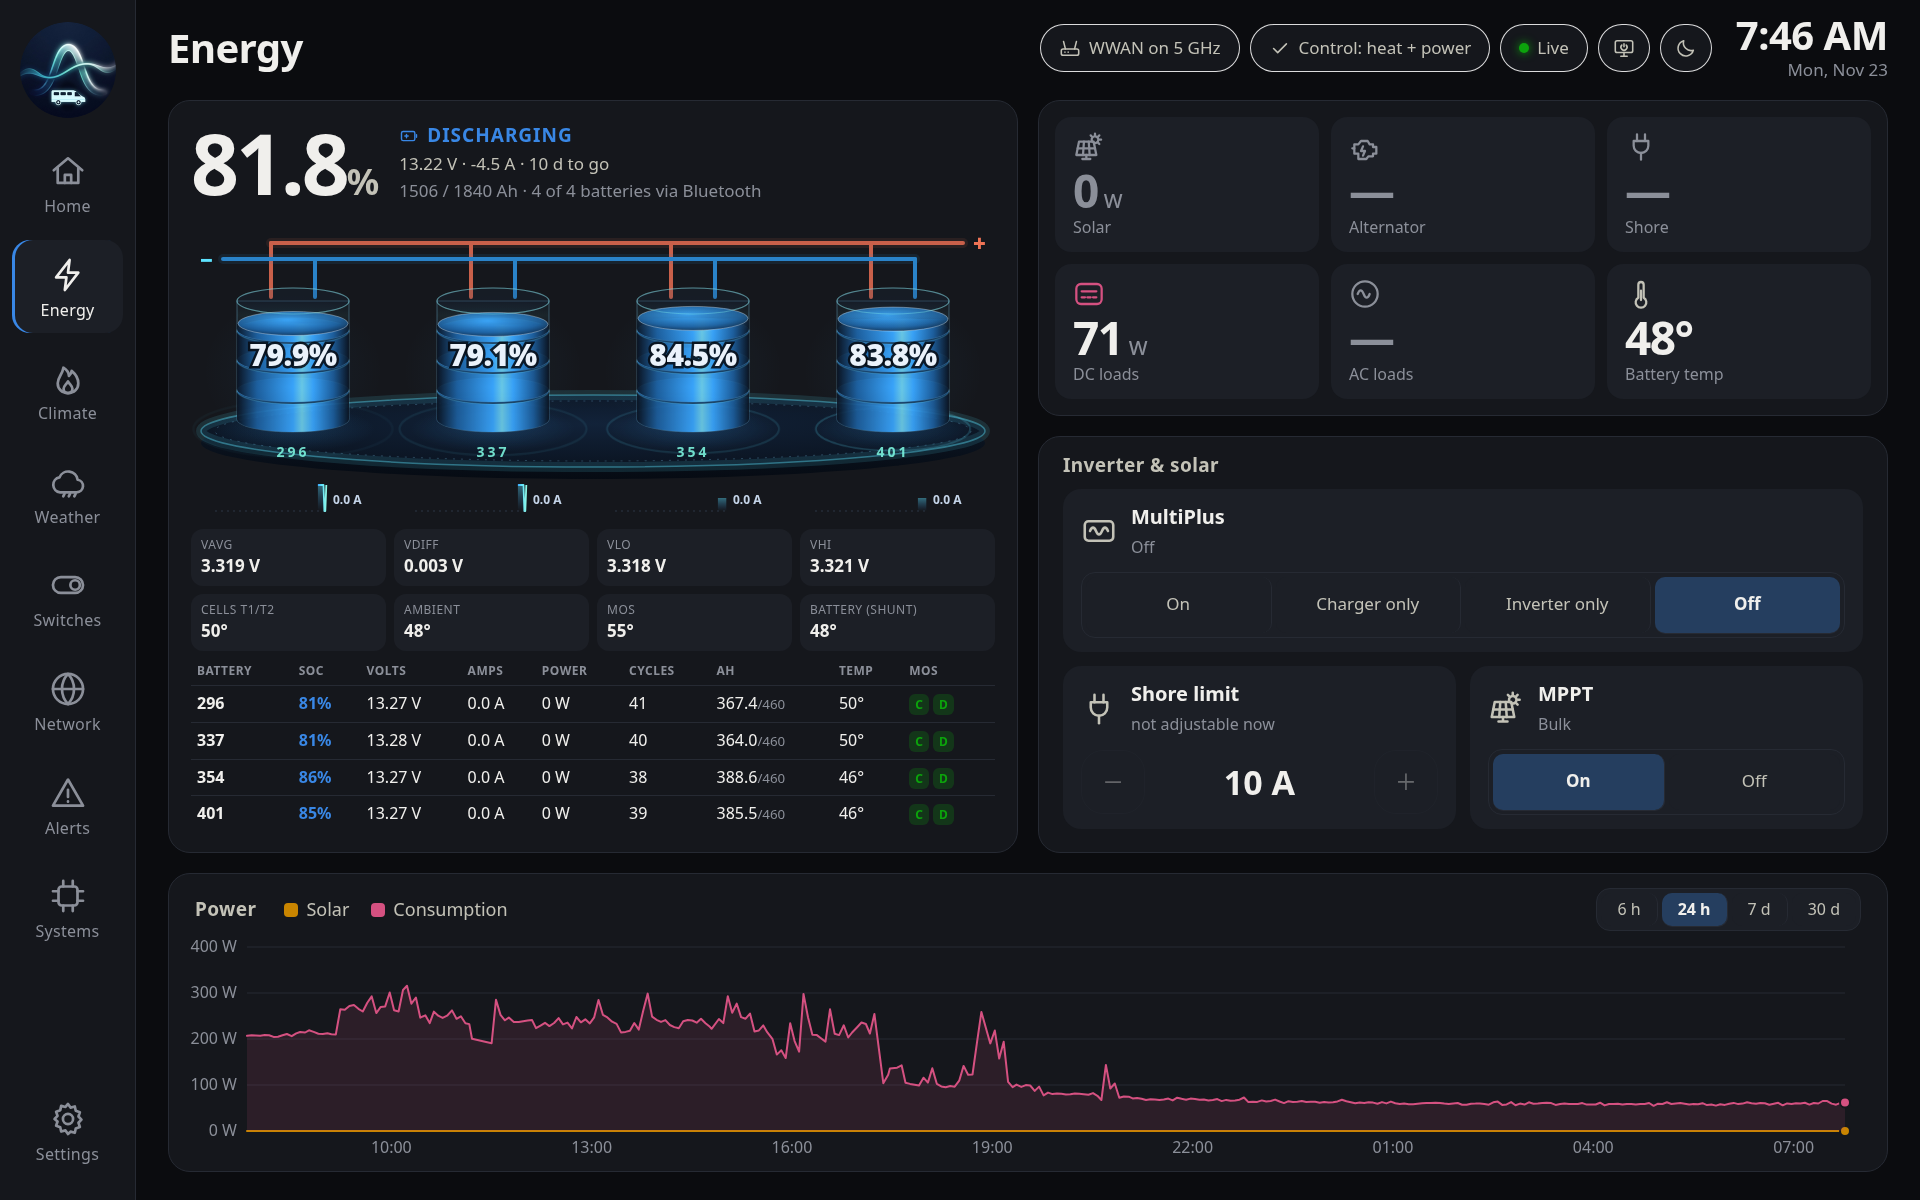
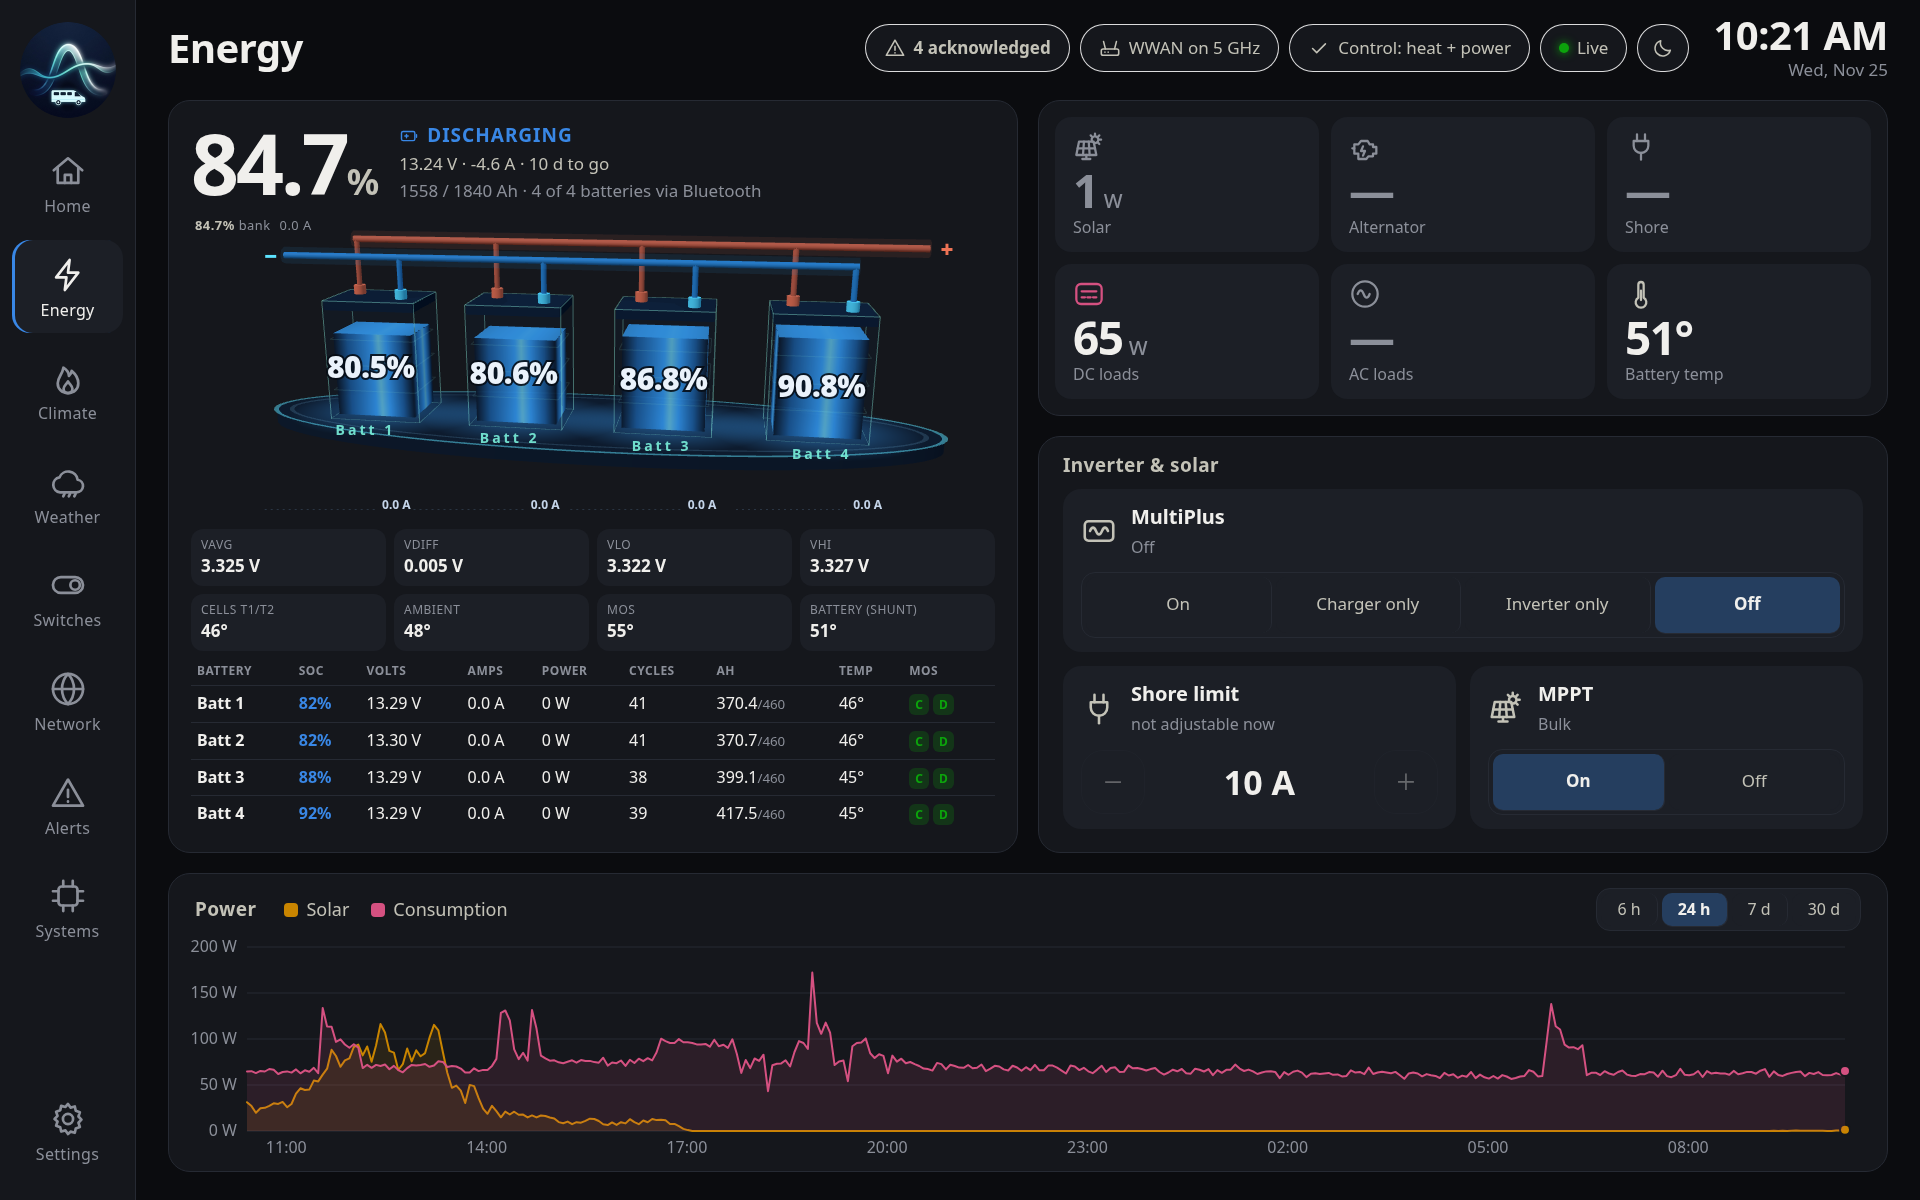
README: new screenshots of the Rust UI (owner), with the tool that makes them
Home, Energy, Climate, Weather and Network from the van's real state, sanitized as before (position Denver, Wi-Fi
"Campground Wi-Fi", batteries Batt 1-4; serials, MACs and private IPs replaced), the weather map dark.

harness/ui-reference/screenshots.sh fetch: the van's /api/state and a copy of its history database, read-only through
tools/van-read.sh. render: sanitize-state.jq, then ui/shots/readme.spec.ts renders the production bundle against a
stub gateway (hello + the snapshot; /api/history answered from the copy with the gateway's own query; times moved to
"now"). Every non-GET request is refused and commands are dropped, so the page can reach no device; only the public
forecast, radar and map services are fetched. The Climate alt text now mentions the Espar card.

Claude-Session: https://claude.ai/code/session_01Jyszw4XqWCXybbAoUN5jAm

diff --git a/ui/shots/readme.spec.ts b/ui/shots/readme.spec.ts
@@ -1,0 +1,79 @@
+// The README's screenshots (docs/screenshots/*.png), from a sanitized state snapshot and a copy of the history
+// database: harness/ui-reference/screenshots.sh sets SHOTS_STATE, SHOTS_HISTORY, SHOTS_TAKEN_AT and SHOTS_OUT.
+// The gateway is a STUB: /ws sends hello + the snapshot and answers nothing; /api/history reads the copy with the
+// gateway's own query. Every non-GET request and every host but the public map/radar/forecast services is refused,
+// so nothing can reach a device. Times in the snapshot and the history are moved to "now", so nothing reads stale.
+import { execFileSync } from "node:child_process";
+import { mkdirSync, readFileSync } from "node:fs";
+import { test } from "@playwright/test";
+
+const env = (k: string) => {
+  const v = process.env[k];
+  if (!v) throw new Error(`${k} is not set (run harness/ui-reference/screenshots.sh)`);
+  return v;
+};
+const STATE = JSON.parse(readFileSync(env("SHOTS_STATE"), "utf8")) as Record<string, unknown>;
+const HISTORY = env("SHOTS_HISTORY");
+const TAKEN_AT = Number(env("SHOTS_TAKEN_AT"));
+const OUT = env("SHOTS_OUT");
+const SHIFT = Date.now() / 1000 - TAKEN_AT;
+// the public services the Weather page fetches itself (forecast, radar index and tiles, the base map)
+const PUBLIC = /^https:\/\/([a-z0-9-]+\.)*(open-meteo\.com|librewxr\.net|openstreetmap\.org)\//;
+
+/** Epoch seconds (and milliseconds) moved by SHIFT; everything else as it was. */
+function shifted(v: unknown): unknown {
+  if (typeof v === "number") {
+    if (v > 1.7e9 && v < 1.9e9) return v + SHIFT;
+    if (v > 1.7e12 && v < 1.9e12) return v + SHIFT * 1000;
+    return v;
+  }
+  if (Array.isArray(v)) return v.map(shifted);
+  if (v && typeof v === "object") return Object.fromEntries(Object.entries(v).map(([k, x]) => [k, shifted(x)]));
+  return v;
+}
+
+/** The gateway's history_get: buckets of max(30 s, since/points), [MAX(t), AVG(v)], read as of TAKEN_AT. */
+function history(key: string, since: number, points: number): [number, number][] {
+  if (!/^[a-z0-9_.]+$/.test(key) || /(^|\.)(lat|lon|location|gps)(\.|$)/.test(key)) return [];
+  const start = TAKEN_AT - since, bucket = Math.max(30, since / Math.max(points, 1));
+  const sql = `SELECT MAX(t) AS t, AVG(v) AS v FROM samples WHERE key = '${key}' AND t >= ${start} `
+    + `GROUP BY CAST((t - ${start}) / ${bucket} AS INTEGER) ORDER BY 1`;
+  const out = execFileSync("sqlite3", ["-readonly", "-json", HISTORY, sql], { encoding: "utf8" }).trim();
+  return (out ? JSON.parse(out) as { t: number; v: number }[] : []).map(r => [r.t + SHIFT, Math.round(r.v * 100) / 100]);
+}
+
+const PAGES: [string, number][] = [["home", 5000], ["energy", 7000], ["climate", 5000], ["weather", 12000], ["network", 7000]];
+
+for (const [view, settle] of PAGES) {
+  test(`${view}.png`, async ({ page }) => {
+    await page.route(() => true, r => {
+      const req = r.request(), u = new URL(req.url());
+      const local = u.hostname === "127.0.0.1" || u.hostname === "localhost";
+      if (local && u.pathname === "/api/client-info") return r.fulfill({ json: {} });
+      if (req.method() !== "GET") return r.abort();                         // no command can leave the page
+      if (local && u.pathname === "/api/history") {
+        const keys = (u.searchParams.get("keys") || "").split(",").filter(Boolean);
+        const since = Math.min(Number(u.searchParams.get("since") || 86400), 31 * 86400);
+        const points = Math.min(Math.max(Number(u.searchParams.get("points") || 240), 10), 2000);
+        return r.fulfill({ json: Object.fromEntries(keys.map(k => [k, history(k, since, points)])) });
+      }
+      if (local && u.pathname === "/api/radar/recorded") return r.fulfill({ json: { frames: [], flows: [] } });
+      if (local && u.pathname.startsWith("/api/")) return r.fulfill({ status: 404, body: "" });
+      if (local || PUBLIC.test(req.url())) return r.continue();
+      return r.abort();
+    });
+    await page.routeWebSocket(/\/ws$/, ws => {
+      ws.onMessage(() => {});                                             // commands are dropped, never answered
+      ws.send(JSON.stringify({ type: "hello", control: true, who: "touchscreen" }));
+      ws.send(JSON.stringify({ type: "snapshot", data: shifted(STATE) }));
+    });
+    // the weather map dark, as in daylight it would follow Auto (light): the README shows it with the dark UI
+    await page.addInitScript(() => { try { localStorage.setItem("vp.wxmap.mode", "dark"); } catch { /* none */ } });
+    await page.goto(`/#${view}`);
+    await page.locator(`.view.on[data-view=${view}]`).waitFor();
+    await page.evaluate(() => document.fonts.ready);
+    await page.waitForTimeout(settle);                                    // charts laid out, 3D scenes and tiles drawn
+    mkdirSync(OUT, { recursive: true });
+    await page.screenshot({ path: `${OUT}/${view}.png` });
+  });
+}

diff --git a/ui/playwright.shots.config.ts b/ui/playwright.shots.config.ts
@@ -1,0 +1,29 @@
+// README screenshots (harness/ui-reference/screenshots.sh runs this): the production bundle, served by `vite preview`,
+// fed a sanitized state snapshot and a copy of the history database by a STUB gateway (shots/readme.spec.ts). Nothing
+// reaches a backend: the preview's proxy points at a dead port, and the stub drops every command.
+import { defineConfig } from "@playwright/test";
+
+const PORT = 4398;
+export default defineConfig({
+  testDir: "shots",
+  timeout: 180_000,
+  workers: 1,
+  reporter: "list",
+  outputDir: "test-results-shots",
+  use: {
+    baseURL: `http://127.0.0.1:${PORT}`,
+    channel: "chrome",
+    viewport: { width: 1920, height: 1200 },
+    deviceScaleFactor: 1,
+    timezoneId: "America/Denver",          // the README's stand-in place (the sanitized position)
+    locale: "en-US",
+  },
+  webServer: {
+    command: `npx vite build && npx vite preview --port ${PORT} --strictPort`,
+    url: `http://127.0.0.1:${PORT}/`,
+    reuseExistingServer: false,
+    timeout: 180_000,
+    env: { AETHERRV_BACKEND: "http://127.0.0.1:9" },        // discard port: an unstubbed request can't reach anything
+    stdout: "ignore",
+  },
+});

diff --git a/README.md b/README.md
@@ -5,7 +5,7 @@ screen, with chrome from the [AetherSDR](https://aethersdr.com) project.
 
 ![AetherRV home screen on the van's 10.1" touchscreen](docs/screenshots/home.png)
 
-<img src="docs/screenshots/energy.png" width="24%" alt="Energy screen: 3D battery bank with four batteries read over Bluetooth, power readings, inverter and solar controls, power history"> <img src="docs/screenshots/climate.png" width="24%" alt="Climate screen: drag-to-set dial with a live fan-speed slider, Rixens MCS7 status, refrigeration and temperature history"> <img src="docs/screenshots/weather.png" width="24%" alt="Weather screen: sunrise/sunset day bar, radar map and a 7-day forecast"> <img src="docs/screenshots/network.png" width="24%" alt="Network screen: Starlink stats over a 3D obstruction sky with the van, Cellular and WWAN cards, drag-to-reorder WAN priority with a disabled section, and throughput with SNR">
+<img src="docs/screenshots/energy.png" width="24%" alt="Energy screen: 3D battery bank with four batteries read over Bluetooth, power readings, inverter and solar controls, power history"> <img src="docs/screenshots/climate.png" width="24%" alt="Climate screen: drag-to-set dial with a live fan-speed slider, Rixens MCS7 and Espar heater status, refrigeration and temperature history"> <img src="docs/screenshots/weather.png" width="24%" alt="Weather screen: sunrise/sunset day bar, radar map and a 7-day forecast"> <img src="docs/screenshots/network.png" width="24%" alt="Network screen: Starlink stats over a 3D obstruction sky with the van, Cellular and WWAN cards, drag-to-reorder WAN priority with a disabled section, and throughput with SNR">
 
 - **Energy:** a Victron Cerbo GX over MQTT shows battery, solar, shore, alternator, inverter and loads as an
   animated flow, with history. It controls MultiPlus mode, shore current limit and MPPT on/off. Individual
